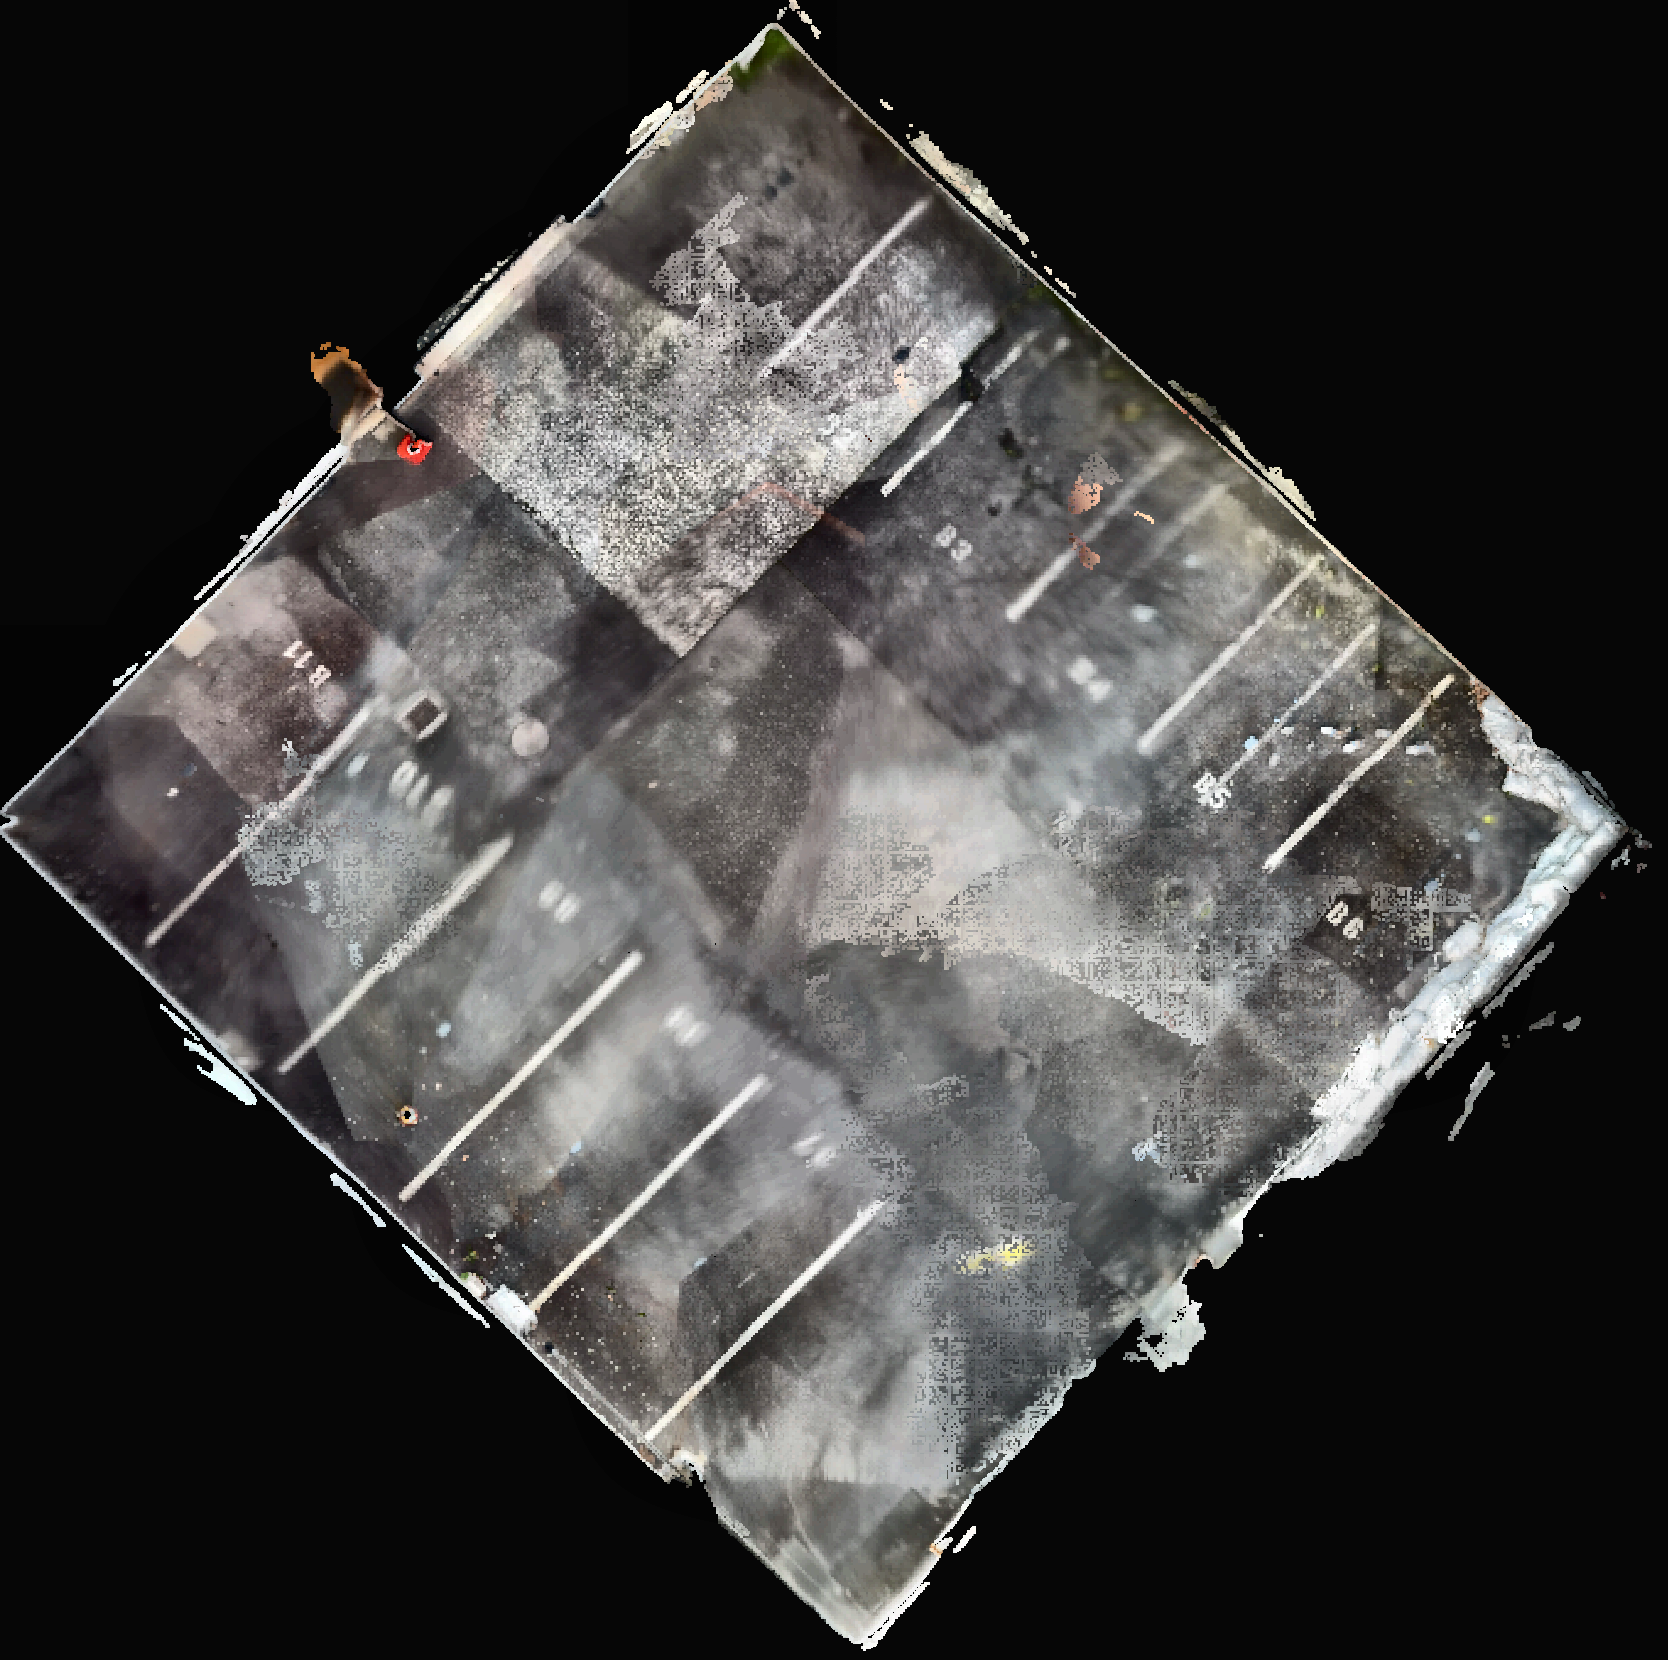
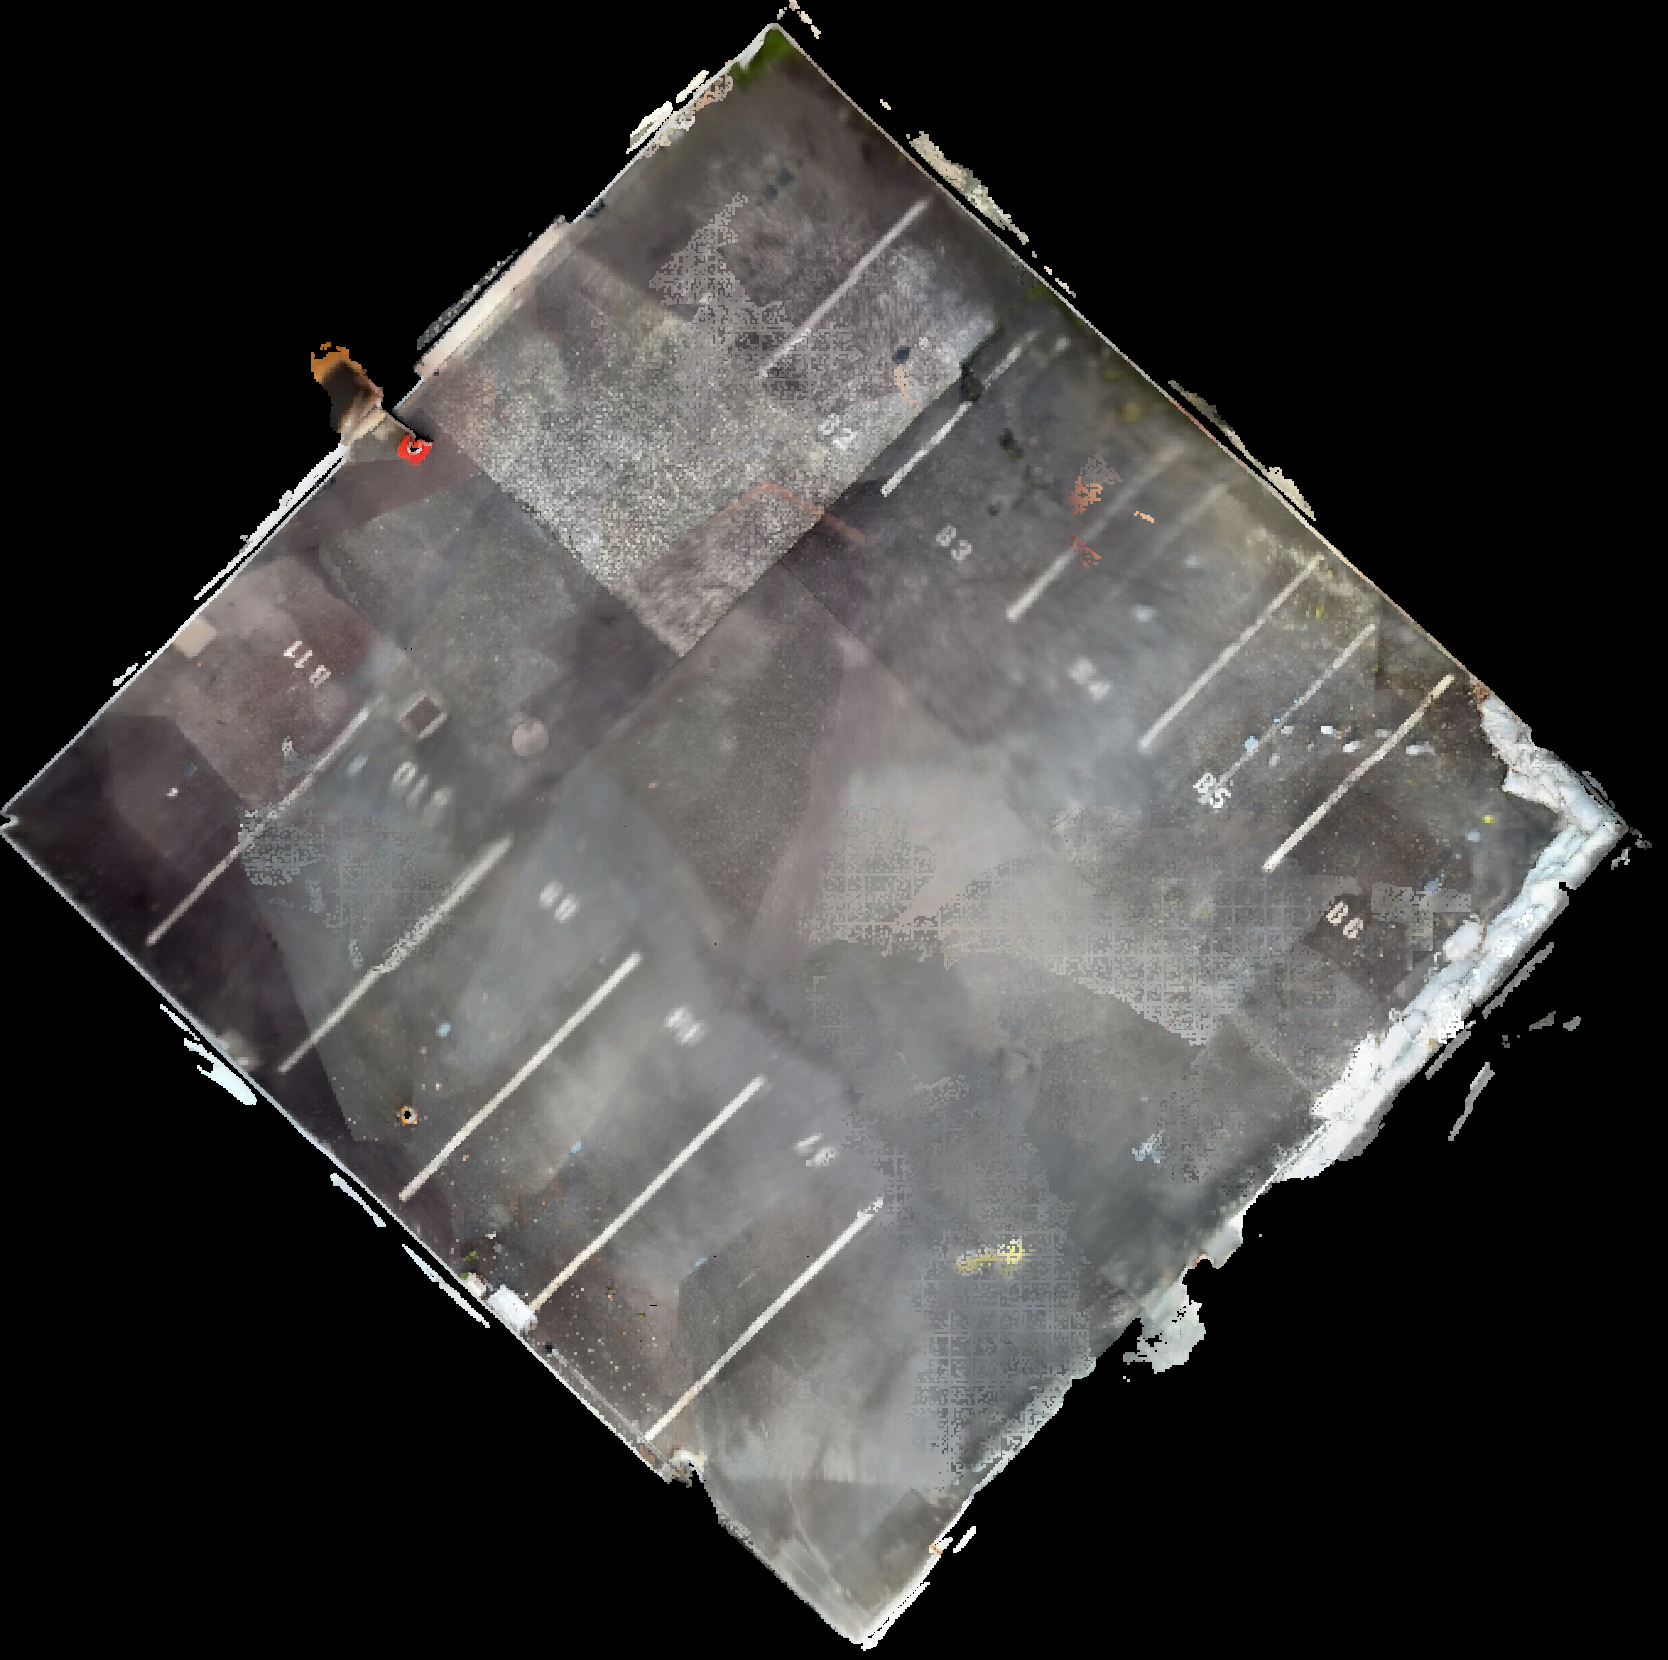
GUI automatic annotation
Added the model inferencing into the main GUI. Added a source of truth file for the automatic inferencing and testing the inference file.

diff --git a/inference.py b/inference.py
@@ -1,58 +1,61 @@
 from ultralytics import YOLO
 from PIL import Image
-from inference_helpers import run_tiled_inference, rotated_nms, draw_detections
+from inference_helpers import run_tiled_inference, rotated_nms
+from inference_config import MODEL_PATH, CONF, TILE_SIZE, PIXEL_THRESHOLD
 import os
 
-model = YOLO("model/yolov8-obb.pt")
 
-source_path = "model-input/largelot.png"
-conf = 0.50
-tile_size = 700
-pixel_threshold = 4_000_000
-base_out_dir = "model-output"
+def run_inference(model, source_path, conf=CONF, tile_size=TILE_SIZE,
+                   pixel_threshold=PIXEL_THRESHOLD, base_out_dir=None):
+    """
+    Runs inference on source_path, auto-choosing tiled vs normal based on pixel_threshold.
+    Returns (detections, mode) where detections is a list of {"poly", "conf", "cls"}
+    in global image coordinates, and mode is "tiled" or "normal".
+    If base_out_dir is given, also saves a visual result image to base_out_dir/<mode>/resultN.png.
+    """
+    with Image.open(source_path) as img:
+        width, height = img.size
+    pixel_count = width * height
+    print(f"Image size: {width}x{height} ({pixel_count:,} pixels)")
+
+    if pixel_count > pixel_threshold:
+        print("Image exceeds threshold: running tiled inference...")
+        mode = "tiled"
+        all_detections, _ = run_tiled_inference(model, source_path, tile_size=tile_size, conf=conf)
+        print(f"Raw detections before NMS: {len(all_detections)}")
+        detections = rotated_nms(all_detections, iou_threshold=0.4)
+        print(f"Final detections after NMS: {len(detections)}")
+    else:
+        print("Image below threshold: running normal inference...")
+        mode = "normal"
+        results = model.predict(source=source_path, conf=conf, save=False, verbose=False)
+        r = results[0]
+        detections = []
+        if r.obb is not None and len(r.obb) > 0:
+            polys = r.obb.xyxyxyxy.cpu().numpy()
+            confs = r.obb.conf.cpu().numpy()
+            clss = r.obb.cls.cpu().numpy()
+            for poly, c, cl in zip(polys, confs, clss):
+                detections.append({"poly": poly, "conf": float(c), "cls": int(cl)})
+
+    if base_out_dir:
+        from inference_helpers import draw_detections
+        out_dir = os.path.join(base_out_dir, mode)
+        os.makedirs(out_dir, exist_ok=True)
+        i = 1
+        while os.path.exists(os.path.join(out_dir, f"result{i}.png")):
+            i += 1
+        out_path = os.path.join(out_dir, f"result{i}.png")
+        draw_detections(source_path, detections, model.names, out_path)
+        print(f"Saved to: {out_path}")
+
+    return detections, mode
 
 
-def get_output_path(base_dir, subfolder, filename_prefix, ext="png"):
-    out_dir = os.path.join(base_dir, subfolder)
-    os.makedirs(out_dir, exist_ok=True)
-    i = 1
-    while os.path.exists(os.path.join(out_dir, f"{filename_prefix}{i}.{ext}")):
-        i += 1
-    return os.path.join(out_dir, f"{filename_prefix}{i}.{ext}")
-
-
-# Checking image size
-with Image.open(source_path) as img:
-    width, height = img.size
-pixel_count = width * height
-print(f"Image size: {width}x{height} ({pixel_count:,} pixels)")
-
-class_names = model.names
-
-# Running inference
-if pixel_count > pixel_threshold:
-    print("Image exceeds threshold: running tiled inference...")
-
-    all_detections, (w, h) = run_tiled_inference(model, source_path, tile_size=tile_size, conf=conf)
-    print(f"Raw detections before NMS: {len(all_detections)}")
-
-    final_detections = rotated_nms(all_detections, iou_threshold=0.4)
-    print(f"Final detections after NMS: {len(final_detections)}")
-
-    out_path = get_output_path(base_out_dir, "tiled", "result")
-    draw_detections(source_path, final_detections, class_names, out_path)
-    print(f"Saved to: {out_path}")
-
-else:
-    print("Image below threshold: running normal inference...")
-
-    results = model.predict(
-        source=source_path,
-        conf=conf,
-        save=False,
+if __name__ == "__main__":
+    model = YOLO(MODEL_PATH)
+    run_inference(
+        model,
+        source_path="model-input/orthomosaic.png",
+        base_out_dir="model-output",
     )
-
-    plotted = results[0].plot()
-    out_path = get_output_path(base_out_dir, "normal", "result")
-    Image.fromarray(plotted[..., ::-1]).save(out_path)  # BGR -> RGB
-    print(f"Saved to: {out_path}")

diff --git a/parking_annotator.py b/parking_annotator.py
@@ -1,6 +1,9 @@
 import tkinter as tk
 from tkinter import filedialog, messagebox
 from PIL import Image, ImageTk
+from ultralytics import YOLO
+from inference import run_inference
+from inference_config import MODEL_PATH, CONF, TILE_SIZE, PIXEL_THRESHOLD
 import json
 import os
 import cv2
@@ -12,6 +15,12 @@ class ParkingAnnotatorApp:
         self.on_annotations_saved = on_annotations_saved
         if hasattr(self.root, 'title'):
             self.root.title("Parking Space Annotator")
+        
+        # Inference variables
+        self.model = YOLO(MODEL_PATH)
+        self.conf = CONF
+        self.tile_size = TILE_SIZE
+        self.pixel_threshold = PIXEL_THRESHOLD
         
         # State variables
         self.image_path = None
@@ -79,6 +88,9 @@ class ParkingAnnotatorApp:
         self.btn_type_ent = tk.Button(self.type_frame, text="Entrance/Exit", command=lambda: self.set_tool("entrance_exit"))
         self.btn_type_ent.pack(side=tk.LEFT, padx=2)
 
+        btn_save = tk.Button(btn_frame, text="Automatic Annotations", command=self.automatic_annotations, bg="orange", fg="black")
+        btn_save.pack(side=tk.RIGHT, padx=5)
+        
         btn_save = tk.Button(btn_frame, text="Save Annotations", command=self.save_annotations, bg="green", fg="black")
         btn_save.pack(side=tk.RIGHT, padx=5)
 
@@ -354,6 +366,52 @@ class ParkingAnnotatorApp:
                 last_pt = scaled_current[-1]
                 self.canvas.create_line(last_pt[0], last_pt[1], first_pt[0], first_pt[1], fill='red', width=2, dash=(4, 4))
 
+    def automatic_annotations(self):
+        if not self.image_path or not self.original_image:
+            messagebox.showinfo("Info", "Load an image first.")
+            return
+
+        if not messagebox.askyesno("Confirm", "This will run automatic detection and ADD to your current polygons. Continue?"):
+            return
+
+        try:
+            self.status_var.set("Running automatic detection...")
+            self.root.update_idletasks()
+
+            detections, mode = run_inference(
+                self.model,
+                self.image_path,
+                conf=self.conf,
+                tile_size=self.tile_size,
+                pixel_threshold=self.pixel_threshold,
+                base_out_dir="model-output",
+            )
+
+            class_names = self.model.names
+            added = 0
+            for det in detections:
+                cls_name = class_names.get(det["cls"], "regular")
+                points = [(int(round(p[0])), int(round(p[1]))) for p in det["poly"]]
+                poly_type = "entrance_exit" if cls_name == "entrance_exit" else f"parking_space_{cls_name}"
+
+                self.polygons.append({
+                    "id": self.poly_id_counter,
+                    "type": poly_type,
+                    "points": points
+                })
+                self.poly_id_counter += 1
+                added += 1
+
+            self.current_polygon = []
+            self.redraw()
+            self.update_live_occupancy()
+            self.status_var.set(f"Automatic annotation ({mode}) added {added} detections. {len(self.polygons)} total.")
+            messagebox.showinfo("Done", f"Added {added} automatically detected spaces ({mode} mode).")
+
+        except Exception as e:
+            messagebox.showerror("Error", f"Automatic annotation failed:\n{e}")
+            self.status_var.set("Automatic annotation failed.")
+
     def save_annotations(self):
         if not self.image_path:
             messagebox.showinfo("Info", "No image loaded.")
@@ -428,7 +486,6 @@ class ParkingAnnotatorApp:
             self.status_var.set("Tool: Entrance/Exit. Left-click to draw. These will be marked as Blue (255,0,0) in occupancy.")
 
 
-
     def update_live_occupancy(self):
         if not self.image_path or not self.original_image:
             return
@@ -464,7 +521,6 @@ class ParkingAnnotatorApp:
             
         except Exception as img_e:
             print(f"Failed to create live parking occupancy image: {img_e}")
-
 
 
 if __name__ == "__main__":

diff --git a/main_gui.py b/main_gui.py
@@ -16,7 +16,7 @@ class MainApp:
     def __init__(self, root):
         self.root = root
         self.root.title("Autonomous Carpark Patrol - Unified GUI")
-        self.root.geometry("1200x800")
+        self.root.geometry("1500x800")
         
         # Setup Notebook (Tabs)
         self.notebook = ttk.Notebook(self.root)

diff --git a/inference_config.py b/inference_config.py
@@ -1,0 +1,5 @@
+# Model configs
+MODEL_PATH = "model/yolov8-obb.pt"
+CONF = 0.50
+TILE_SIZE = 700
+PIXEL_THRESHOLD = 4_000_000
